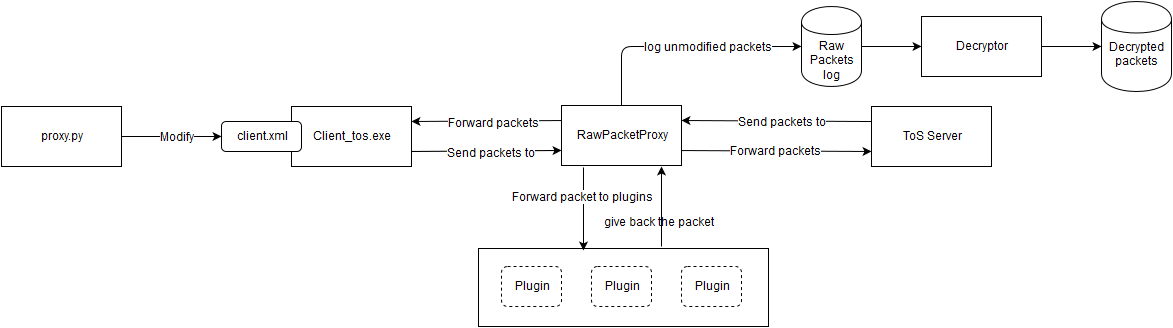
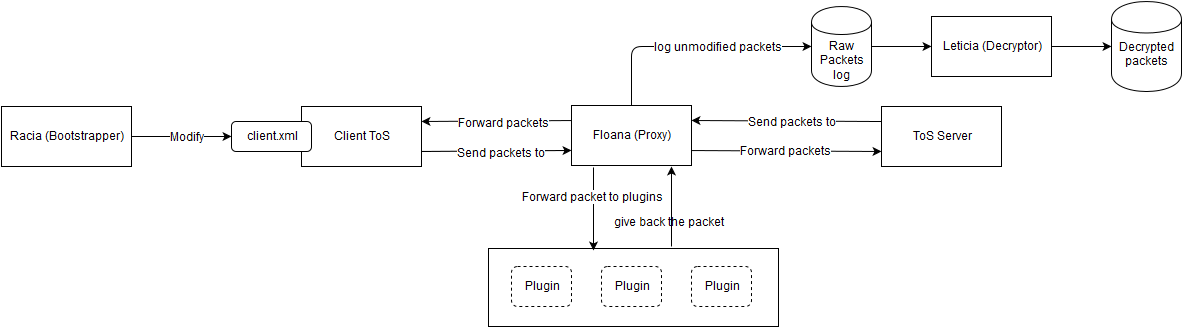
Update documentation with pretty names. Rename decrypt_engine to PacketProcessor.

diff --git a/src/common/dbg/dbg.h b/src/common/dbg/dbg.h
@@ -77,7 +77,7 @@ typedef enum {
 
     /** Error level debug function. */
     #define error(format, ...)                                            \
-        dbg_ex(DBG_LEVEL_ERROR, stderr, "[ERROR] " format "\n", ##__VA_ARGS__); system("pause")
+        dbg_ex(DBG_LEVEL_ERROR, stderr, "[ERROR] " format "\n", ##__VA_ARGS__);
 
     /** Special level debug function. */
     #define special(format, ...)                                            \

diff --git a/src/Leticia-Decryptor/Leticia.c b/src/Leticia-Decryptor/Leticia.c
@@ -14,8 +14,8 @@
 #include "dbg/dbg.h"
 #include "RawPacket/RawPacket.h"
 #include "PacketType/PacketType.h"
+#include "PacketProcessor/PacketProcessor.h"
 #include "crypto/crypto.h"
-#include "crypto/decrypt_engine.h"
 
 int writePacketToFiles (uint8_t *data, int dataSize, RawPacketType type, int64_t packetId, void *_sessionFolder) {
 

diff --git a/src/common/PacketProcessor/PacketProcessor.h b/src/common/PacketProcessor/PacketProcessor.h
@@ -18,4 +18,5 @@
 
 typedef int (*DecryptCallback) (uint8_t *data, int dataSize, RawPacketType type, int64_t packetId, void *user_data);
 
+// Call for each decrypted packet in a raw TCP packet a given callback
 int foreachDecryptedPacket (RawPacket *rawPacket, DecryptCallback callback, void *user_data);

diff --git a/src/Plugins/hook_zone_connect.c b/src/Plugins/hook_zone_connect.c
@@ -12,9 +12,9 @@
  */
 #include "plugins.h"
 #include "dbg/dbg.h"
-#include "crypto/crypto.h"
-#include "crypto/decrypt_engine.h"
+#include "PacketProcessor/PacketProcessor.h"
 #include "PacketType/PacketType.h"
+#include "crypto/crypto.h"
 #include <stdlib.h>
 #include <stdint.h>
 

diff --git a/src/common/PacketProcessor/PacketProcessor.c b/src/common/PacketProcessor/PacketProcessor.c
@@ -1,4 +1,4 @@
-#include "decrypt_engine.h"
+#include "PacketProcessor.h"
 #include "crypto/crypto.h"
 #include "PacketType/PacketType.h"
 #include "dbg/dbg.h"
